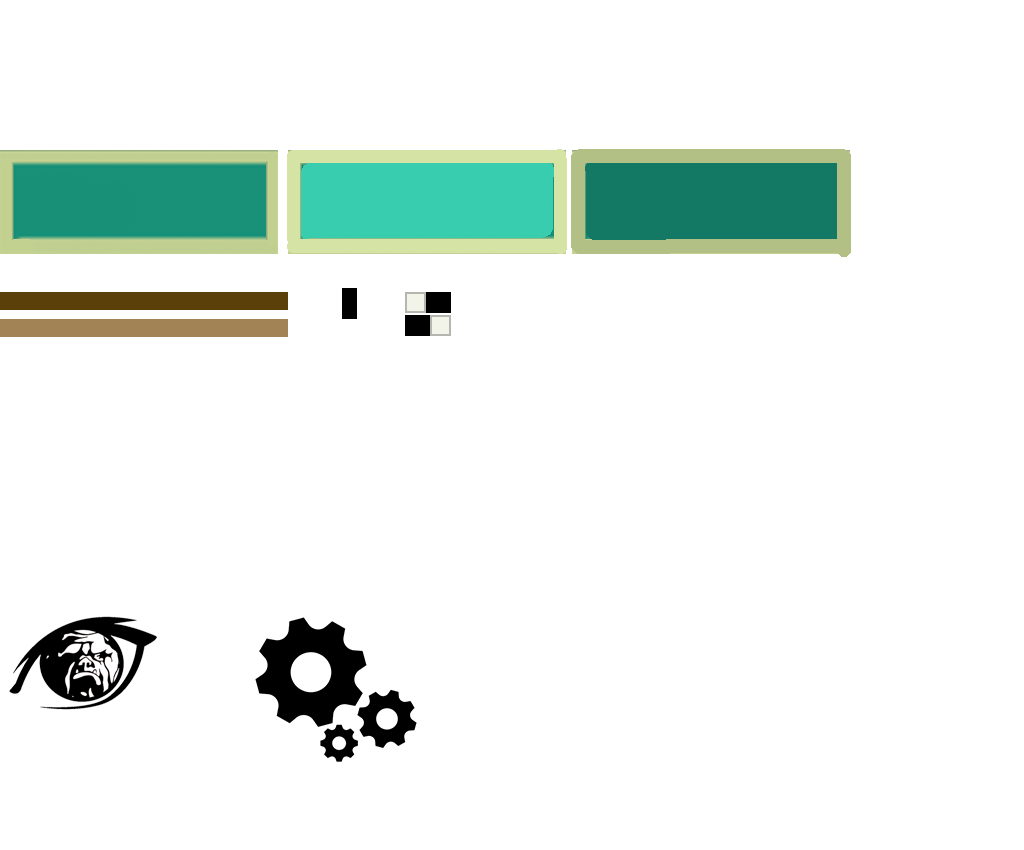
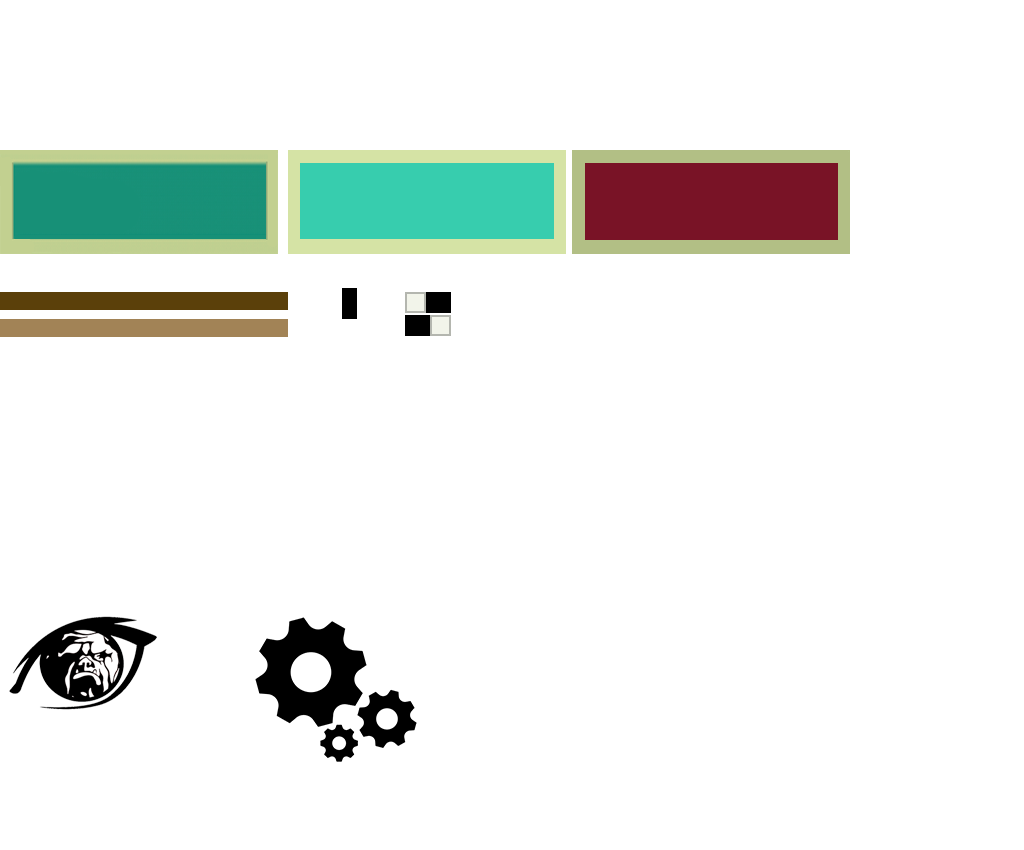
Adding button fx and clicked button art

Changed region(s): [[0.5312, 0.1835, 0.8438, 0.3059], [0.0312, 0.2753, 0.25, 0.3059]]

diff --git a/Source/UI_Scene.cpp b/Source/UI_Scene.cpp
@@ -60,7 +60,7 @@ bool UIScene::Start()
 
 
 		//PLAY
-		UI_element* new_game = App->gui->createButton(372 * App->gui->UI_scale, 250 * App->gui->UI_scale, NULL, { 0,148,281,111 }, { 281,148,281,111 }, { 562,148,281,111 }, this);
+		UI_element* new_game = App->gui->createButton(372 * App->gui->UI_scale, 250 * App->gui->UI_scale, NULL, { 0,148,281,111 }, { 281,148,281,111 }, { 566,148,281,111 }, this);
 		new_game->function = NEW_GAME;
 
 		UI_element* new_text = App->gui->createText("PLAY", 200, 200, big_buttons_font, brown_color);
@@ -68,7 +68,7 @@ bool UIScene::Start()
 		new_game->appendChildAtCenter(new_text);
 
 		//CONTINUE
-		continueButton = App->gui->createButton(372 * App->gui->UI_scale, 400 * App->gui->UI_scale, NULL, { 0,148,281,111 }, { 281,148,281,111 }, { 562,148,281,111 }, this);
+		continueButton = App->gui->createButton(372 * App->gui->UI_scale, 400 * App->gui->UI_scale, NULL, { 0,148,281,111 }, { 281,148,281,111 }, { 566,148,281,111 }, this);
 		continueButton->function = CONTINUE;
 
 
@@ -77,7 +77,7 @@ bool UIScene::Start()
 		continueButton->appendChildAtCenter(continue_text);
 
 		//EXIT GAME
-		UI_element* exit_game = App->gui->createButton(372 * App->gui->UI_scale, 550 * App->gui->UI_scale, NULL, { 0,148,281,111 }, { 281,148,281,111 }, { 562,148,281,111 }, this);
+		UI_element* exit_game = App->gui->createButton(372 * App->gui->UI_scale, 550 * App->gui->UI_scale, NULL, { 0,148,281,111 }, { 281,148,281,111 }, { 566,148,281,111 }, this);
 
 		exit_game->function = EXIT;
 
@@ -86,7 +86,7 @@ bool UIScene::Start()
 		exit_game->appendChildAtCenter(exit_text);
 
 		//CREDITS
-		UI_element* credits = App->gui->createButton(App->gui->UI_scale, 647 * App->gui->UI_scale, NULL, { 0,148,281,111 }, { 281,148,281,111 }, { 562,148,281,111 }, this);
+		UI_element* credits = App->gui->createButton(App->gui->UI_scale, 647 * App->gui->UI_scale, NULL, { 0,148,281,111 }, { 281,148,281,111 }, { 566,148,281,111 }, this);
 		credits->function = CREDITS;
 
 		UI_element* credit_text = App->gui->createText("CREDITS", 200, 200, big_buttons_font, brown_color);
@@ -135,7 +135,7 @@ bool UIScene::Start()
 
 
 		//BACK BUTTON
-		UI_element* back_button = App->gui->createButton(375 * App->gui->UI_scale, 580 * App->gui->UI_scale, NULL, { 0,148,281,111 }, { 281,148,281,111 }, { 562,148,281,111 }, this);
+		UI_element* back_button = App->gui->createButton(375 * App->gui->UI_scale, 580 * App->gui->UI_scale, NULL, { 0,148,281,111 }, { 281,148,281,111 }, { 566,148,281,111 }, this);
 		back_button->function = BACK;
 		UI_element* back_text = App->gui->createText("BACK", 300, 300, mid_buttons_font, brown_color);
 		back_text->setOutlined(true);
@@ -180,7 +180,7 @@ bool UIScene::Start()
 
 
 		//BACK BUTTON
-		UI_element* back_button = App->gui->createButton(375 * App->gui->UI_scale, 580 * App->gui->UI_scale, NULL, { 0,148,281,111 }, { 281,148,281,111 }, { 562,148,281,111 }, this);
+		UI_element* back_button = App->gui->createButton(375 * App->gui->UI_scale, 580 * App->gui->UI_scale, NULL, { 0,148,281,111 }, { 281,148,281,111 }, { 566,148,281,111 }, this);
 		back_button->function = BACK;
 		UI_element* back_text = App->gui->createText("BACK", 300, 300, mid_buttons_font, brown_color);
 		back_text->setOutlined(true);
@@ -425,9 +425,10 @@ bool UIScene::OnUIEvent(UI_element* element, event_type event_type)
 		{
 		case NEW_GAME:
 		{
-			App->scene->RestartLevel();
+			
 			actual_menu = INGAME_MENU;
-			App->transition->MenuTransition(INGAME_MENU, 0.3);
+			App->transition->MenuTransition(INGAME_MENU, 0.1);
+			App->scene->RestartLevel();
 			break;
 		}
 		case RESTART:
@@ -439,7 +440,7 @@ bool UIScene::OnUIEvent(UI_element* element, event_type event_type)
 		{
 			actual_menu = INGAME_MENU;
 			bool result = App->LoadGame("save_game.xml");
-			App->transition->MenuTransition(INGAME_MENU, 0.3);
+			App->transition->MenuTransition(INGAME_MENU, 0.1);
 			break;
 		}
 		break;

diff --git a/Source/j1Gui.cpp b/Source/j1Gui.cpp
@@ -46,7 +46,7 @@ bool j1Gui::Start()
 	atlas = App->tex->Load(atlas_file_name.data());
 	UI_scale = App->win->GetScale();
 	UI_scale = 1 / UI_scale;
-	button_click_fx = App->audio->LoadFx("audio/fx/button_click.wav");
+	button_click_fx = App->audio->LoadFx("Audio/fx/pop_button.wav");
 
 	return true;
 }
